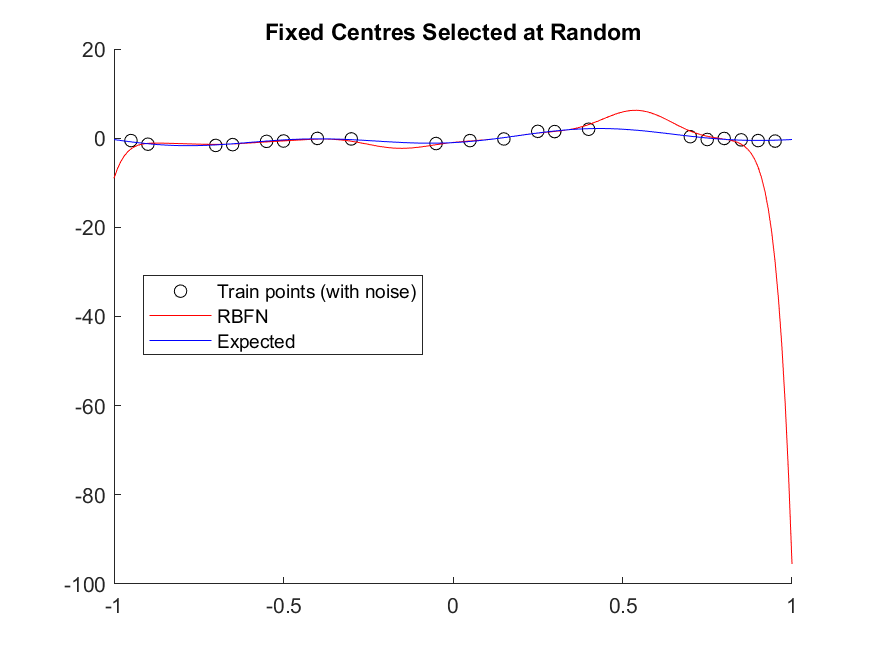
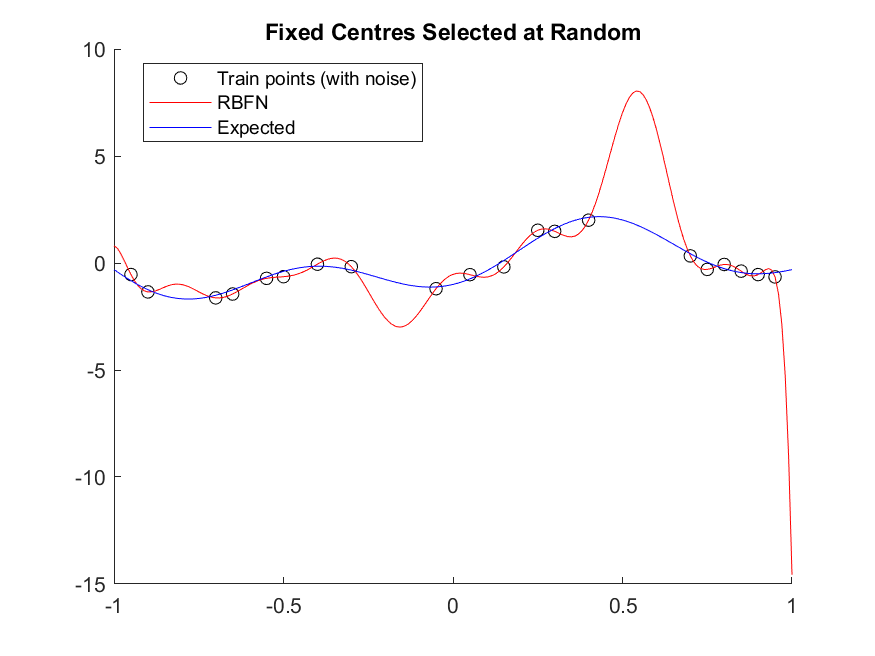
Complete question 2

diff --git a/Homework3/q2c.m b/Homework3/q2c.m
@@ -1,0 +1,99 @@
+clc
+clear
+close all
+
+% Matric A0138993L
+% Classes chosen: 9 and 3
+load('characters10.mat');
+
+%imshow(reshape(train_data(2997,:), [28,28]));
+train_idx = find(train_label == 3 | train_label == 9);
+% 9(K) --> 1 and 3(R) --> 0
+TrLabel = train_label(train_idx);
+TrLabel(TrLabel == 9) = 1;
+TrLabel(TrLabel == 3) = 0;
+
+train_x = train_data(train_idx, :);
+% casting to double to remove warning when normalizing data
+train_x = cast(train_x/255, 'double');
+
+test_idx = find(test_label == 3 | test_label == 9);
+TeLabel = test_label(test_idx);
+TeLabel(TeLabel == 9) = 1;
+TeLabel(TeLabel == 3) = 0;
+
+test_x = test_data(test_idx, :);
+% casting to double to remove warning when normalizing data
+test_x = cast(test_x/255, 'double');
+
+rng(3);
+k = 2;
+center_idx = randperm(size(train_x, 1));
+curr_cen = train_x(center_idx(1:k), :);
+old_cen = zeros(size(curr_cen));
+
+%K means clustering
+while ~isequal(curr_cen, old_cen)
+    old_cen = curr_cen;
+    % assignment
+    distance = pdist2(old_cen, train_x);
+    [~, label] = min(distance, [], 1);
+    % updating
+    curr_cen(1,:) = mean(train_x(label==1, :), 1);
+    curr_cen(2,:) = mean(train_x(label==2, :), 1);
+end
+
+%obtained centers
+fig = figure();
+sgtitle('Obtained centers');
+subplot(121);
+imshow(reshape(curr_cen(1,:), [28,28]));
+subplot(122);
+imshow(reshape(curr_cen(2,:), [28,28]));
+saveas(fig, 'q2c_k_centers.png');
+%mean of training image
+fig = figure();
+sgtitle('Mean of training images');
+subplot(121);
+imshow(reshape(mean(train_x(TrLabel==1, :), 1), [28,28]));
+subplot(122);
+imshow(reshape(mean(train_x(TrLabel==0, :), 1), [28,28]));
+saveas(fig, 'q2c_mean_imgs.png');
+
+%training
+r_factors = [0.0001, 0.001, 0.01, 0.1, 1, 10, 100, 1000];
+sigma = 100;
+for i=r_factors
+    lambda = i;
+    r_train = pdist2(train_x, curr_cen, 'squaredeuclidean');
+    phi = exp( r_train / (-2*((sigma)^2)) );
+    w = ((phi'*phi) + lambda*eye(size(phi, 2))) \ (phi'*TrLabel);
+    %TrPred
+    TrPred = (phi*w)';
+
+    %TePred
+    r_test = pdist2(test_x, curr_cen, 'squaredeuclidean');
+    %gaussian rbf
+    phi = exp( r_test / (-2*((sigma)^2)) );
+    TePred = (phi*w)';
+
+    fig = figure();
+    TrAcc = zeros(1,1000);
+    TeAcc = zeros(1,1000);
+    thr = zeros(1,1000);
+    TrN = length(TrLabel);
+    TeN = length(TeLabel);
+    for j = 1:1000
+        t = (max(TrPred)-min(TrPred)) * (j-1)/1000 + min(TrPred);
+        thr(j) = t;
+        TrAcc(j) = (sum(TrLabel(TrPred<t)==0) + sum(TrLabel(TrPred>=t)==1)) / TrN;
+        TeAcc(j) = (sum(TeLabel(TePred<t)==0) + sum(TeLabel(TePred>=t)==1)) / TeN;
+    end
+    hold on
+    plot(thr, TrAcc, '-^r');
+    plot(thr, TeAcc, '-xb');
+    legend('Train','Test');
+    title(sprintf('K-Means Clustering (lambda=%.4f)', i))
+    saveas(fig,sprintf('q2c_lambda_%.4f.png',i))
+    hold off
+end

diff --git a/Homework3/q2b.m b/Homework3/q2b.m
@@ -26,30 +26,32 @@ test_x = test_data(test_idx, :);
 % casting to double to remove warning when normalizing data
 test_x = cast(test_x/255, 'double');
 
-r_factors = [0, 0.0001, 0.001, 0.01, 0.1, 1, 10, 100];
-sd= 100;
-for i = r_factors
-    % exact interpolation on train
-    lambda = i;
-    r_train = pdist2(train_x, train_x, 'squaredeuclidean');
-    % gaussian rbf
-    phi = exp( r_train / (-2*((sd)^2)) );
-    % applying regularization method to determine new weights
-    if (i == 0)
-        w = phi \ TrLabel;
-    else
-        w = ((phi'*phi) + lambda*eye(size(phi, 2))) \ (phi'*TrLabel);
-    end
+% randomly select 100 centers
+m = 100;
+% seed for reproducibility
+rng(3)
+center_idx = randperm(size(train_x, 1));
+train_x = train_x(center_idx(1:m), :);
+TrLabel = TrLabel(center_idx(1:m), :);
+
+r_train = pdist2(train_x, train_x, 'squaredeuclidean');
+dmax_squared = max(r_train, [], 'all');
+sigma = sqrt(dmax_squared/(2*m));
+
+vary_width = [sigma, 0.1, 1, 10, 100, 1000, 10000];
+for i = vary_width
+    width = i;
+    phi = exp( -(r_train / (2*(width^2))) );
+    w = phi \ TrLabel;
     
-    % TrPred
-    TrPred = (phi*w)';
+    %TrPred
+    TrPred = (phi*w);
     
     %TePred
     r_test = pdist2(test_x, train_x, 'squaredeuclidean');
-    %gaussian rbf
-    phi = exp( r_test / (-2*((sd)^2)) );
-    TePred = (phi*w)';
-
+    phi = exp ( -(r_test / (2*(width^2))) );
+    TePred = (phi*w);
+    
     fig = figure();
     TrAcc = zeros(1,1000);
     TeAcc = zeros(1,1000);
@@ -66,7 +68,8 @@ for i = r_factors
     plot(thr, TrAcc, '-^r');
     plot(thr, TeAcc, '-xb');
     legend('Train','Test');
-    title(sprintf('Exact Interpolation (lambda=%.4f)', i))
-    saveas(fig,sprintf('q2a_lambda_%.4f.png',i))
+    title(sprintf('Fixed Centers Selected at Random (lambda=%.3f)', i))
+    saveas(fig,sprintf('q2b_lambda_%.3f.png',i))
     hold off
 end
+    

diff --git a/Homework3/q1b.m b/Homework3/q1b.m
@@ -14,8 +14,8 @@ test_y = 1.2*sin(pi*test_x) - cos(2.4*pi*test_x);
 % randomly select 20 centers
 m = 20;
 center_idx = randperm(size(train_x, 2));
-mew_x = train_x(center_idx(1:20));
-mew_y = train_y(center_idx(1:20));
+mew_x = train_x(center_idx(1:m));
+mew_y = train_y(center_idx(1:m));
 
 % exact interpolation on train
 % no need to square or sqrt since x has only 1 value
@@ -28,8 +28,6 @@ w = phi \ mew_y';
 
 %predict y
 r_test = abs(test_x' - mew_x);
-% maximum dist between chosen centers
-dmax = max(r_test, [], 'all');
 % rbf
 phi = exp( -(m/dmax^2) * r_test.^2 );
 y_predict = (phi*w)';
